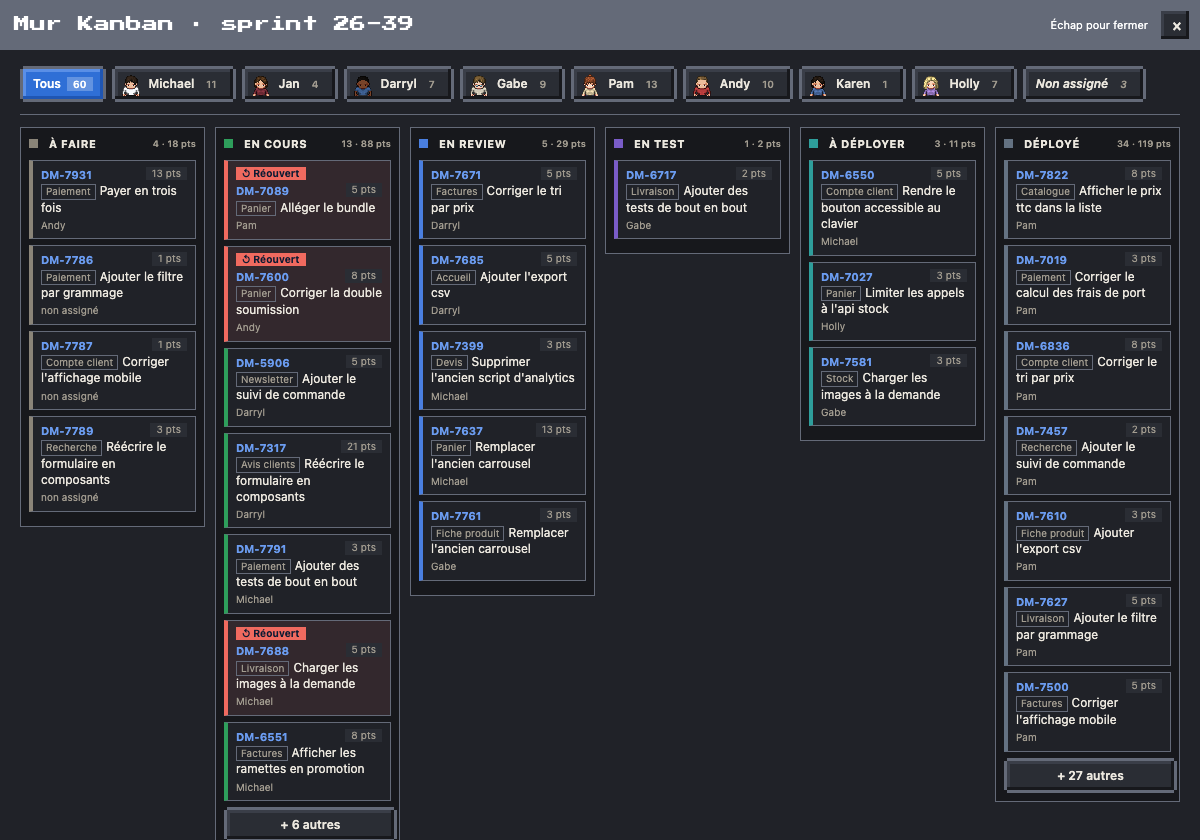
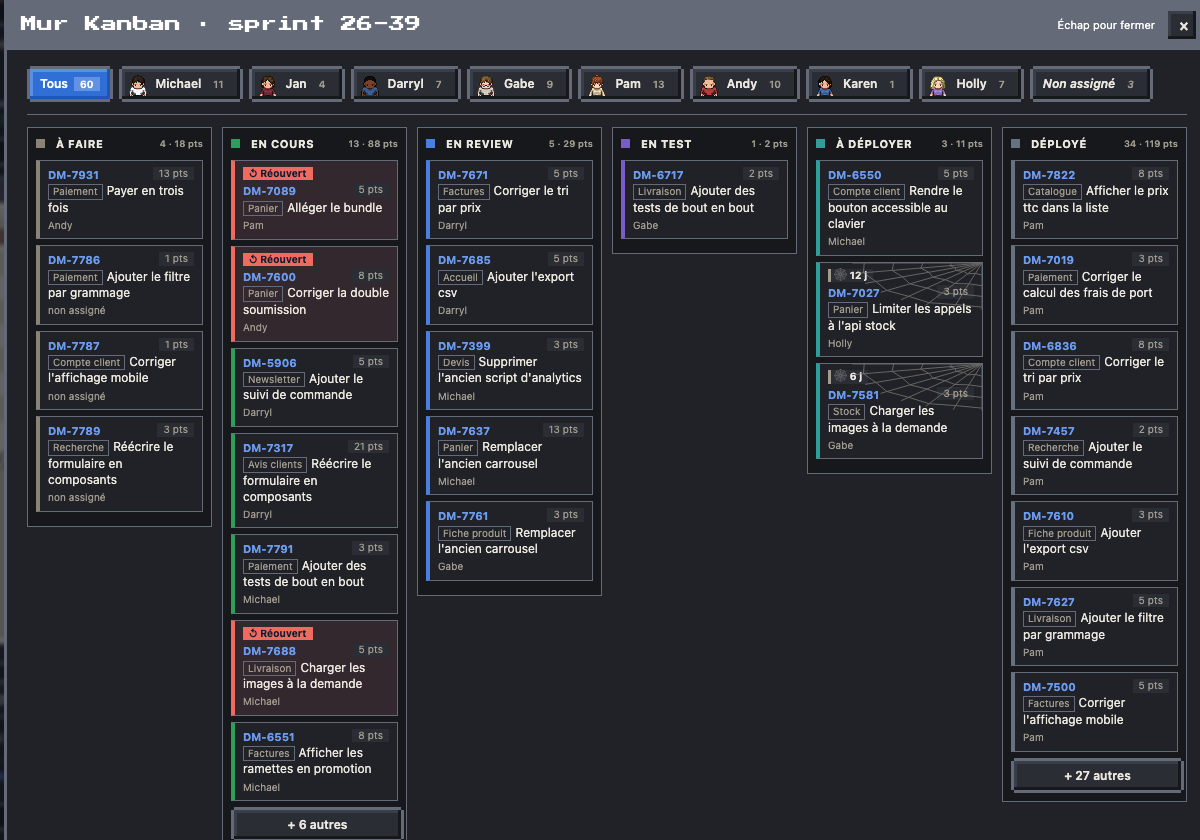
feat: une toile d'araignée sur les tickets qui traînent, et le ménage du soir (#121)
## 🎯 Quoi et pourquoi
Deux petits moments sur le plan, choisis sur maquettes :
- **Repérer les tickets qui traînent** sans chercher. Les revues
automatiques rendent inutile un compteur de PR en attente ; ce qui
compte, c'est le temps qu'un ticket passe dans sa colonne. Le signe se
voit seulement sur le Mur Kanban.
- **Le bureau vide le soir** : un agent d'entretien qui passe une heure,
et qu'on retrouve dans le fil.

## 🔧 Changements
- `feat(kanban)` : `kbStale` et `kbWeb` (`63-kanban.js`). Un ticket
au-delà de son seuil (3 j en review, en test ou à déployer, 10 j en
cours ; jamais à faire ni déployé) se couvre d'une toile d'araignée qui
grandit avec le retard : un coin au seuil, la moitié au double, la carte
entière au-delà de 60 j, avec une araignée, et la carte se ternit. Tag «
🕸 N j » ; au survol, la colonne, les jours et le seuil. Jours comptés
depuis le dernier changement de statut (`tkSince`), à l'heure de la page
(rejeu compris). Seuils réglables : `ui.stale`. Aucune donnée en plus.
- `feat(plan)` : `49-menage.js`. Invité commun `g_menage`
(`team/guests.json`, « L'agent d'entretien », recette d'avatar dans
`sprites/cast.json`, sans planche) avec `on: "cleaning"`. Les jours
ouvrés, arrivée tirée au sort pour la date entre la fin des heures de
bureau et 20h, une heure : un arrêt au bout de chaque îlot, puis la
cafétéria, les toilettes et la salle de réunion ; son chariot est
dessiné à côté de lui (`cleaningCarts`, trié avec les personnages). Deux
[…]

diff --git a/page/src/63-kanban.js b/page/src/63-kanban.js
@@ -11,6 +11,23 @@ let KB_WHO='', KB_VOL=null, KB_BACK=[];
 // un ticket réouvert (statut jira.flow.reopened, rangé dans « En cours ») : pastille « ↺ Réouvert » et liseré rouge
 const kbReopened=x=>!!x.status&&x.status===FLOW.reopened;
 const kbPeople=()=>chars.filter(c=>c.person&&c.team&&c.team.tickets.length);
+// un ticket qui traîne dans sa colonne (depuis son dernier changement de statut, tkSince, à l'heure de la page) : une toile
+// d'araignée le recouvre, un coin au seuil, la moitié au double, la carte entière avec son araignée au-delà de 60 j, et la
+// carte porte « 🕸 N j ». Seuils en jours par colonne (ui.stale de la config ou du pack pour en changer)
+const KB_STALE={doing:10,review:3,test:3,deploy:3};
+function kbStale(x,col){
+  const lim=((CFG.ui||{}).stale||KB_STALE)[col], u=lim&&tkSince(x);if(!u)return null;
+  const d=Math.floor((T-u)/864e5);if(d<lim)return null;
+  return {d,lim,lvl:d>=60?3:d>=2*lim?2:1};
+}
+function kbWeb(lvl){
+  const R=[26,50,115][lvl-1], n=[5,7,9][lvl-1], pt=(a,r)=>(100-Math.cos(a)*r*1.6).toFixed(1)+' '+(Math.sin(a)*r).toFixed(1);
+  let p='';
+  for(let i=0;i<=n;i++)p+=`<path d="M100 0L${pt(Math.PI/2*i/n,R)}"/>`;
+  for(let r=1;r<=lvl+2;r++){let d='';for(let i=0;i<=n;i++)d+=(i?'L':'M')+pt(Math.PI/2*i/n,R*r/(lvl+2.4)+(i%2?1.5:0));p+=`<path d="${d}"/>`;}
+  return `<svg class="kb-web kb-web${lvl}" viewBox="0 0 100 100" preserveAspectRatio="none" aria-hidden="true">${p}</svg>`+(lvl<3?'':
+    '<svg class="kb-spider" viewBox="0 0 22 40" aria-hidden="true"><path class="kb-silk" d="M11 0V24"/><path d="M11 28L3 22L1 18M11 29L2 28L0 25M11 30L3 33L1 37M11 28L19 22L21 18M11 29L20 28L22 25M11 30L19 33L21 37"/><ellipse cx="11" cy="29" rx="4" ry="5"/></svg>');
+}
 function kbTitle(){
   const c=byKey[KB_WHO];
   return 'Mur Kanban'+(c?' · '+c.name:KB_WHO==='-'?' · non assignés':TEAM&&TEAM.sprint&&TEAM.sprint.name?' · sprint '+TEAM.sprint.name:'');
@@ -56,10 +73,10 @@ function kanbanFill(box){
     const pts=list.reduce((a,x)=>a+(+x.points||0),0), n=KB_ALL[k]?list.length:KB_MAX;
     if(KB_VOL&&k==='done')return `<button type="button" class="kbw-col kbw-strip" title="${esc(TCAT[k].t)} : ${list.length} tickets (fermer le volet pour les voir)"><span class="dot" style="background:${TCAT[k].c}"></span>${esc(TCAT[k].t)} · ${list.length}</button>`;
     return `<section class="kbw-col" aria-label="${esc(TCAT[k].t)}"><h3><span class="dot" style="background:${TCAT[k].c}"></span>${esc(TCAT[k].t)}<small>${list.length}${pts?' · '+Math.round(pts)+' pts':''}</small></h3>`+
-      list.slice(0,n).map(x=>{const t=tkComp(x.summary), ro=kbReopened(x);
-        return `<a href="#" class="kbw-c${x.key===cur?' kb-on':''}${ro?' kb-ro':''}" data-tk="${esc(x.key)}"${x.key===cur?' aria-current="true"':''} style="--c:${TCAT[k].c}" title="Ouvrir sa fiche et ses actions">`+
-          (ro?'<span class="kb-rot" title="Réouvert en test : retour en cours">↺ Réouvert</span>':'')+`<b>${esc(x.key)}</b>${x.points?`<em>${esc(x.points)} pts</em>`:''}`+
-          `<span class="kbw-t">${t.comp?`<span class="kbw-cp">${esc(t.comp)}</span>`:''}${esc(t.title)}</span><small>${esc(x.owner?String(x.owner).split(' ')[0]:'non assigné')}</small></a>`;}).join('')+
+      list.slice(0,n).map(x=>{const t=tkComp(x.summary), ro=kbReopened(x), st=kbStale(x,k);
+        return `<a href="#" class="kbw-c${x.key===cur?' kb-on':''}${ro?' kb-ro':''}${st?' kb-stale kb-stale'+st.lvl:''}" data-tk="${esc(x.key)}"${x.key===cur?' aria-current="true"':''} style="--c:${TCAT[k].c}" title="${st?`Dans « ${esc(TCAT[k].t)} » depuis ${st.d} j (seuil ${st.lim} j). `:''}Ouvrir sa fiche et ses actions">`+
+          (ro?'<span class="kb-rot" title="Réouvert en test : retour en cours">↺ Réouvert</span>':'')+(st?`<span class="kb-age">🕸 ${st.d} j</span>`:'')+`<b>${esc(x.key)}</b>${x.points?`<em>${esc(x.points)} pts</em>`:''}`+
+          `<span class="kbw-t">${t.comp?`<span class="kbw-cp">${esc(t.comp)}</span>`:''}${esc(t.title)}</span><small>${esc(x.owner?String(x.owner).split(' ')[0]:'non assigné')}</small>${st?kbWeb(st.lvl):''}</a>`;}).join('')+
       (list.length>n?`<button type="button" class="kbw-more" data-col="${k}">+ ${list.length-n} autre${list.length-n>1?'s':''}</button>`:'')+
       (list.length?'':'<span class="kbw-none">—</span>')+'</section>';
   }).join('')+'</div></div><p class="hint">'+(KB_VOL?'Un autre ticket change le volet ; un lien de PR l\'y ouvre, « ← » revient ; Échap ferme le volet, puis la fenêtre.':

diff --git a/page/src/49-menage.js b/page/src/49-menage.js
@@ -1,0 +1,39 @@
+// ---------- ménage du soir : un invité on « cleaning » fait le tour du bureau vide, une heure, avec son chariot ----------
+// Les jours ouvrés, il arrive à une heure tirée au sort pour la date (la même au rejeu) entre la fin des heures de bureau
+// et 20h, et reste une heure : un arrêt au bout de chaque îlot, puis la cafétéria, les toilettes et la salle de réunion
+// (une pièce absente du plan se replie ailleurs, ZONE_FALLBACK). Les pièces où il passe s'éclairent comme pour tout le
+// monde (42-light.js). Deux lignes dans le fil : son arrivée et son départ.
+const CLEAN_DUR=60*60e3, CLEAN_ROOMS=[['coffee','la cafétéria'],['wc','les toilettes'],['meet','la salle de réunion']];
+// {s, e} du jour de t ; null le week-end
+function cleaningVisit(c,t){
+  if(SCENE_DEMO&&SCENE_DEMO.visit&&SCENE_DEMO.visit.c===c)return SCENE_DEMO.visit.v; // 46-gallery.js : sa tournée, jouée maintenant
+  if(RHYTHM.weekend.includes(parisHM(t).wd))return null;
+  const r=rng(keySeed(c.key)*7919+daySeed(t)), h1=RHYTHM.office_hours[1]*60, m0=h1+r()*Math.max(0,20*60-h1);
+  const s=parisMidnight(t)+m0*60e3;return {s,e:s+CLEAN_DUR};
+}
+// les arrêts : le bout de chaque îlot (côté allée), puis les pièces
+function cleaningStops(){
+  const out=[];
+  for(const [i,cx] of (ISLANDS||[]).entries()){const y=(IROWS||[]).length?IROWS[IROWS.length-1]+1:null;
+    if(y!=null&&walkable(cx,y))out.push({zone:'visit',visit:[cx,y,'up'],room:'îlot '+(i+1)});}
+  return out.concat(CLEAN_ROOMS.map(([zone,room])=>({zone,room})));
+}
+function cleaningState(c,t){
+  const v=cleaningVisit(c,t);
+  if(!v||t<v.s)return {st:'off',label:'Passe le soir, après les heures de bureau'};
+  if(t>=v.e)return {st:'gone',label:'A fait le ménage de '+hm(v.s)+' à '+hm(v.e)};
+  const stops=cleaningStops(), p=stops[Math.min(stops.length-1,Math.floor((t-v.s)/(CLEAN_DUR/stops.length)))];
+  return {st:'idle',zone:p.zone,...(p.visit?{visit:p.visit}:{}),label:'Fait le ménage : '+p.room+' · arrivé à '+hm(v.s)+', repart vers '+hm(v.e),bubble:'🧹'};
+}
+// son chariot, devant lui (seau bleu, flacon jaune, balai) ; trié avec les personnages (41-render.js)
+function cleaningCarts(){
+  const out=[];
+  for(const c of chars){if(c.on!=='cleaning'||!c._st||!c.pos||['off','gone'].includes(c._st.st))continue;
+    const [dx,dy]={left:[-20,0],right:[20,0]}[c.dir]||[20,2]; /* de face ou de dos : à côté de lui, jamais derrière un bureau */out.push({x:c.pos.x+dx,y:c.pos.y+dy,z:c.pos.y+dy+.5});}
+  return out;
+}
+function drawCart(m){
+  const x=Math.round(m.x)-11,y=Math.round(m.y);
+  R(ctx,x,y-16,22,13,'#5d6470');R(ctx,x+2,y-14,18,4,'#8a929e');R(ctx,x+3,y-22,8,7,'#3d8bd8');R(ctx,x+13,y-21,5,6,'#e0b23a');
+  R(ctx,x+17,y-28,2,25,'#b08a5a');R(ctx,x+2,y-3,4,3,'#22252c');R(ctx,x+16,y-3,4,3,'#22252c');
+}

diff --git a/tests/menage.test.js b/tests/menage.test.js
@@ -1,0 +1,48 @@
+// Ménage du soir (49-menage.js) : l'invité on « cleaning » arrive après les heures de bureau (au plus tard 20h), reste
+// une heure, s'arrête au bout de chaque îlot puis dans les pièces, pousse son chariot ; deux lignes dans le fil.
+'use strict';
+const test = require('node:test');
+const assert = require('node:assert/strict');
+const {load} = require('./helpers/page.js');
+
+const page = load({layout: 'open-space'});
+const run = page.run;
+const J = code => JSON.parse(run('JSON.stringify(' + code + ')'));
+const HANK = "chars.find(c=>c.on==='cleaning')";
+
+test('Hank est un invité commun, avec sa recette (aucune planche)', () => {
+  assert.equal(J(`${HANK}.key`), 'g_menage');
+  assert.ok(J('!!RECIPES.g_menage'));
+});
+
+test('arrivée entre la fin des heures de bureau et 20h, une heure, la même à chaque calcul ; rien le week-end', () => {
+  const v = J(`(()=>{const c=${HANK},a=cleaningVisit(c,DAY0+12*36e5),b=cleaningVisit(c,DAY0+3*36e5);
+    return {m:(a.s-parisMidnight(a.s))/6e4,dur:(a.e-a.s)/6e4,same:a.s===b.s,end:RHYTHM.office_hours[1]*60};})()`);
+  assert.ok(v.m >= v.end && v.m <= Math.max(v.end, 20 * 60), JSON.stringify(v));
+  assert.equal(v.dur, 60);
+  assert.ok(v.same);
+  const sat = J(`(()=>{let t=DAY0;while(!RHYTHM.weekend.includes(parisHM(t).wd))t+=864e5;return cleaningVisit(${HANK},t+12*36e5);})()`);
+  assert.equal(sat, null);
+});
+
+test('la tournée : chaque îlot, puis la cafétéria, les toilettes et la salle de réunion ; son chariot le suit', () => {
+  const rooms = J('cleaningStops().map(s=>s.room)');
+  assert.equal(rooms.filter(r => r.startsWith('îlot')).length, J('ISLANDS.length'));
+  assert.deepEqual(rooms.slice(-3), ['la cafétéria', 'les toilettes', 'la salle de réunion']);
+  const s = J(`(()=>{const c=${HANK},v=cleaningVisit(c,DAY0+12*36e5);return [cleaningState(c,v.s-6e4).st,cleaningState(c,v.s+6e4),cleaningState(c,v.e+6e4).st];})()`);
+  assert.equal(s[0], 'off');
+  assert.match(s[1].label, /^Fait le ménage : îlot 1/);
+  assert.equal(s[1].bubble, '🧹');
+  assert.equal(s[2], 'gone');
+  const carts = J(`(()=>{const c=${HANK};c._st={st:'idle'};c.pos={x:100,y:200};c.dir='left';const a=cleaningCarts();c._st={st:'gone'};return [a,cleaningCarts()];})()`);
+  assert.deepEqual(carts[0], [{x: 80, y: 200, z: 200.5}]);
+  assert.deepEqual(carts[1], []);
+});
+
+test('le fil : son arrivée et son départ', () => {
+  const lines = J(`(()=>{const v=cleaningVisit(${HANK},DAY0+12*36e5);return feedLifeEvents(v.e+6e4).filter(e=>e.c&&e.c.on==='cleaning').map(e=>[e.t===v.s||e.t===v.e,e.txt.replace(/<[^>]+>/g,'')]);})()`);
+  assert.equal(lines.length, 2);
+  assert.ok(lines.every(l => l[0]));
+  assert.match(lines[0][1], /commence le ménage du soir/);
+  assert.match(lines[1][1], /a fini le ménage/);
+});

diff --git a/page/src/styles.css b/page/src/styles.css
@@ -256,6 +256,15 @@ button.back kbd{font:10px ui-monospace,Menlo,monospace;border:1px solid var(--li
 .kbw-strip{writing-mode:vertical-rl;transform:rotate(180deg);display:flex;align-items:center;justify-content:flex-end;gap:8px;min-height:220px;margin:0;padding:10px 0;font-size:11px;font-weight:700;text-transform:uppercase;letter-spacing:.05em;color:var(--muted)}
 .kbw-c.kb-ro{border-left-color:var(--err);background:color-mix(in srgb,var(--err) 9%,var(--panel))}
 .kb-rot{display:table;font-size:10px;font-weight:700;padding:0 6px;border-radius:999px;margin:0 0 3px;background:var(--err);color:var(--on-accent)} /* le texte des fonds colorés de chaque thème : 5,9:1 sur le rouge clair du Classique */
+/* ticket qui traîne (63-kanban.js) : « 🕸 N j » et une toile qui grandit avec le retard, l'araignée au-delà de 60 j */
+.kbw-c.kb-stale{position:relative;overflow:hidden}
+.kb-age{display:table;font-size:10px;font-weight:700;padding:0 6px;margin:0 0 3px;background:var(--chip);color:var(--ink);box-shadow:inset 3px 0 0 var(--muted)}
+.kb-web{position:absolute;inset:0;width:100%;height:100%;pointer-events:none;fill:none;stroke:var(--muted);stroke-width:1;opacity:.55}
+.kb-web path{vector-effect:non-scaling-stroke}
+.kb-web3{opacity:.7}.kb-stale3{filter:saturate(.6) brightness(.95)}
+.kb-stale3 b,.kb-stale3 .kbw-t{text-shadow:0 0 3px var(--panel),0 0 2px var(--panel)}
+.kb-spider{position:absolute;top:0;right:34%;width:22px;height:40px;pointer-events:none;fill:var(--ink);stroke:var(--ink);stroke-width:1.3}
+.kb-spider .kb-silk{stroke:var(--muted);stroke-width:.8;fill:none}
 .kbw-c.kb-on{outline:3px solid var(--accent);outline-offset:1px}
 .kbv.side{position:sticky;top:64px;max-height:calc(84vh - 150px);overflow:auto;padding:12px;margin:0;border:1px solid var(--line);border-radius:10px;background:var(--panel);box-shadow:none}
 .mv-host{display:block;margin:0 0 12px}

diff --git a/tests/kanban.test.js b/tests/kanban.test.js
@@ -69,3 +69,25 @@ test('un ticket réouvert (statut jira.flow.reopened) porte la pastille « ↺ R
   assert.equal(J('kbReopened({status:"En cours",cat:"doing"})'), false);
   assert.equal(J('kbReopened({cat:"doing"})'), false);
 });
+
+test('ticket qui traîne : seuils par colonne (3 j en attente, 10 j en cours), trois niveaux de toile, rien ailleurs', () => {
+  const st = (col, days) => J(`kbStale({since: new Date(T - ${days} * 864e5).toISOString()}, ${JSON.stringify(col)})`);
+  assert.equal(st('review', 2), null);
+  assert.deepEqual(st('review', 3), {d: 3, lim: 3, lvl: 1});
+  assert.deepEqual(st('deploy', 6), {d: 6, lim: 3, lvl: 2});
+  assert.equal(st('doing', 9), null);
+  assert.deepEqual(st('doing', 25), {d: 25, lim: 10, lvl: 2});
+  assert.deepEqual(st('doing', 181), {d: 181, lim: 10, lvl: 3});
+  assert.equal(st('todo', 400), null); // à faire et déployé : jamais
+  assert.equal(st('done', 400), null);
+  assert.equal(J('kbStale({}, "review")'), null); // date inconnue
+  assert.match(J('kbWeb(3)'), /kb-spider/);
+  assert.doesNotMatch(J('kbWeb(2)'), /kb-spider/);
+});
+
+test('ticket qui traîne : seuils réglables (ui.stale)', () => {
+  run('CFG.ui = CFG.ui || {}; CFG.ui.stale = {review: 1};');
+  try { assert.deepEqual(J('kbStale({since: new Date(T - 864e5).toISOString()}, "review")'), {d: 1, lim: 1, lvl: 1});
+        assert.equal(J('kbStale({since: new Date(T - 50 * 864e5).toISOString()}, "doing")'), null); } // colonne absente du réglage
+  finally { run('delete CFG.ui.stale;'); }
+});

diff --git a/page/src/70-kpis-feed.js b/page/src/70-kpis-feed.js
@@ -186,6 +186,9 @@ function feedLifeEvents(t){
       ev.push({t:e,c,imp:false,txt:`🧘 ${refWho(c)} passe féliciter ${a?refWho(a):esc(n||"l'équipe")} pour ${refTag(z.tag)}${shout(n)}`});}continue;}
     if(c.on==='coffee'){const r=coffeeTour(c,DAY0+12*36e5);if(r&&today(r.s)) // 49-coffee.js : une ligne à son arrivée
       ev.push({t:r.s,c,imp:false,txt:'☕ '+String(c.feed||"{name} apporte le café à l'équipe").split('{name}').map(esc).join(refWho(c))});continue;}
+    if(c.on==='cleaning'){const v=cleaningVisit(c,DAY0+12*36e5);if(v&&today(v.s)){ // 49-menage.js : son arrivée et son départ
+      ev.push({t:v.s,c,imp:false,txt:`🧹 ${refWho(c)} commence le ménage du soir`});
+      if(today(v.e))ev.push({t:v.e,c,imp:false,txt:`🧹 ${refWho(c)} a fini le ménage, le bureau est propre`});}continue;}
     if(c.on)continue;
     const v=guestVisit(c,DAY0+12*36e5); if(!v||!today(v.s))continue;
     const p=/^Passe voir (.+?) ·/.exec((guestState(c,v.s+1e3)||{}).label||''), pc=p&&chars.find(x=>x.person&&x.name===p[1]);

diff --git a/page/src/46-gallery.js b/page/src/46-gallery.js
@@ -34,6 +34,8 @@ function galleryScenes(){
     const visit=len=>s=>{SCENE_DEMO.visit={c,v:{s,e:s+len,r:rng(keySeed(c.key)*7919+daySeed(s))}};};
     if(c.on==='coffee'){const n=chars.filter(p=>p.person&&p.seat).length+1;
       add({...g,ico:'☕',n:c.name+' · tournée de café',d:c.role||'Un café pour chaque présent',w:'Vers 16 h, jours ouvrés',play:{len:n*120e3+COFFEE_BREW,speed:30,setup:visit(n*120e3+COFFEE_BREW)}});}
+    else if(c.on==='cleaning')add({...g,ico:'🧹',n:c.name+' · ménage du soir',d:c.role||'Le tour du bureau vide, avec son chariot',w:'Le soir des jours ouvrés, une heure',
+      play:{len:CLEAN_DUR,speed:60,setup:visit(CLEAN_DUR)}});
     else if(c.on==='mail'){const acc=typeof mailAccounts==='function'?mailAccounts().filter(a=>a.ok):[];
       if(acc.length)add({...g,ico:'📮',n:c.name+' · le courrier',d:c.role||'Dépose le courrier aux boîtes',w:'À l\'arrivée d\'un courrier',
         play:{len:POST_STAY+60e3,speed:10,setup:s=>{SCENE_DEMO.flag='post';}}});}

diff --git a/page/src/41-render.js b/page/src/41-render.js
@@ -5,6 +5,7 @@ function render(now){
   for(const c of chars)if(c.present&&c.pos&&!popHidden(c,now)&&!ufoHides(c))list.push({y:c.pos.y,d:n=>drawChar(c,n)}); // popHidden : 66-newagent.js
   DUCK_POS=duckAt(T); if(DUCK_POS)list.push({y:DUCK_POS.y,d:drawDuck}); // 39-duck.js : le canard, trié avec les personnages
   for(const m of coffeeMugs())list.push({y:m.z,d:n=>drawMug(m,n)}); // 49-coffee.js : les tasses de la tournée de café
+  for(const m of cleaningCarts())list.push({y:m.z,d:()=>drawCart(m)}); // 49-menage.js : le chariot du ménage du soir
   list.sort((a,b)=>a.y-b.y);
   for(const it of list)it.d(now);
   drawLight(now); // voile du soir et de la nuit, sous les bulles et les noms

diff --git a/page/src/35-state.js b/page/src/35-state.js
@@ -170,6 +170,7 @@ function guestState(c,t){
   if(c.on==='prod')return prodHeraldState(c,t); // 37-scenes.js : le héraut des mises en prod réussies
   if(c.on==='mail')return postmanState(c,t); // 48-mail.js : le facteur dépose le courrier
   if(c.on==='coffee')return coffeeState(c,t); // 49-coffee.js : la tournée de café
+  if(c.on==='cleaning')return cleaningState(c,t); // 49-menage.js : le ménage du soir
   const v=guestVisit(c,t);
   if(!v||t<v.s)return {st:'off',label:"Pas passé aujourd'hui"};
   if(t>=v.e)return {st:'gone',label:'Passé de '+hm(v.s)+' à '+hm(v.e)};

diff --git a/tools/shots.py b/tools/shots.py
@@ -176,6 +176,8 @@ SHOTS = {
     "kanban-deplacer": (1600, 1000, AT(11) + KB_DEMO + "openTicket(_all.find(t=>t.cat==='review').key);", ".kbv"),
     "carte-deplacer": (1400, 1000, AT(11) + KB_DEMO + "openTicket(_all.find(t=>t.cat==='review').key);document.querySelector('.kbv .mv-next').click();", ".kmodal"),
     # un ticket réouvert (statut jira.flow.reopened) : pastille « ↺ Réouvert » dans la colonne En cours
+    # tickets qui traînent : DM-6551 ramené 181 j en arrière (en cours), à côté des deux « à déployer » de la démo (6 j, 12 j)
+    "kanban-traine": (1600, 1000, AT(11) + "TEAM.people.flatMap(p=>p.tickets).filter(t=>t.key==='DM-6551').forEach(t=>{t.since=new Date(T-181*864e5).toISOString();});select('kanban');", ".bp-wide"),
     "kanban-reouvert": (1600, 1000, AT(11) + KB_DEMO + "TEAM.people.flatMap(p=>p.tickets).filter(x=>x.cat==='doing')[1].status=FLOW.reopened;openKanban();", ".bp-wide"),
     # le Kanban filtré sur une personne (barre de portraits en haut)
     "kanban-personne": (1600, 1000, AT(11) + "select('kanban');KB_WHO=kbPeople()[0].key;kanbanFill(document.querySelector('.bp-wbody'));", ".bp-wide"),
@@ -272,6 +274,8 @@ SHOTS = {
                       "const e={id:'x',kind:'ufo',...ufoLandings()[0]};Object.defineProperty(e,'t0',{get:()=>performance.now()-.79*13e3});"
                       "FX.cur=new Map([['x',e]]);},1800);", "#cv", 1),
     # tournée de café (49-coffee.js) : Kevin apporte son café au boss, à gauche de son bureau ; les autres ont déjà leur tasse
+    # ménage du soir (49-menage.js) : l'agent d'entretien et son chariot au bout du 4e îlot, 21 min après son arrivée
+    "menage": (1400, 1000, AT(12) + "T=cleaningVisit(byKey.g_menage,T).s+0.35*36e5;needTeleport=true;", "#cv", 1.5),
     "tournee-cafe": (1400, 1000, AT(16) + "setTimeout(()=>{setLoupe(false,false);const r=coffeeTour(byKey.g_kevin,T);"
                      "T=r.at+(r.list.length-.5)*120e3;needTeleport=true;},1500);", "#cv", 1),
     "agent-retabli": (1400, 1000, AT(18 + 7 / 60) + "setTimeout(()=>{window.fxFrame=()=>{};setLoupe(false,false);FX_WORKING.push('idle');"

diff --git a/tests/test_install.py b/tests/test_install.py
@@ -517,12 +517,12 @@ class GuestsTest(unittest.TestCase):
         pack = os.path.join(ROOT, "tests", "fixtures", "pack-exemple")
         cfg = {"team": pack, "guests": [{"key": "g_x", "name": "X"}]}
         profile = [g["key"] for g in json.loads(Path(os.path.join(pack, "roster.json")).read_text())["guests"]]
-        self.assertEqual([g["key"] for g in assemble.guests(cfg)], ["g_gandalf", "g_yoda", "g_facteur"] + profile + ["g_x"])
+        self.assertEqual([g["key"] for g in assemble.guests(cfg)], ["g_gandalf", "g_yoda", "g_facteur", "g_menage"] + profile + ["g_x"])
         self.assertIn("g_hank", profile)
-        self.assertEqual([g["key"] for g in assemble.guests({})], ["g_gandalf", "g_yoda", "g_facteur"])  # toute installation, même sans équipe
+        self.assertEqual([g["key"] for g in assemble.guests({})], ["g_gandalf", "g_yoda", "g_facteur", "g_menage"])  # toute installation, même sans équipe
         self.assertEqual(assemble.guests({"common_guests": False}), [])
         renamed = assemble.guests({"guests": [{"key": "g_yoda", "name": "Le sage", "sprite": "yoda", "on": "prod"}]})
-        self.assertEqual([(g["key"], g["name"]) for g in renamed], [("g_gandalf", "Gandalf"), ("g_facteur", "Le facteur"), ("g_yoda", "Le sage")])  # même clé : remplacé (et passé en dernier)
+        self.assertEqual([(g["key"], g["name"]) for g in renamed], [("g_gandalf", "Gandalf"), ("g_facteur", "Le facteur"), ("g_menage", "L'agent d'entretien"), ("g_yoda", "Le sage")])  # même clé : remplacé (et passé en dernier)
         self.assertTrue({"yoda", "mage", "facteur"} <= set(assemble.sprites({})))  # planches communes (sprites/common.json)
         self.assertIn("sorcier", assemble.sprites(cfg))  # sa planche, tirée de sprites/sorcier/ du pack
         html = assemble.build(demo=False, cfg=dict(json.loads(Path(os.path.join(ROOT, "tests", "fixtures", "bureau.config.json")).read_text()), team=pack))

diff --git a/README.md b/README.md
@@ -8,13 +8,13 @@ Une page Live pour [Kronn](https://github.com/DocRoms/Kronn) façon *The Office*
 
 | Fonctionnalité | En bref |
 | --- | --- |
-| [Le plan](guide/fonctionnalites/01-plan.md) | Collègues, agents en hologramme (et ceux ajoutés depuis une baie de la salle Serveurs), visiteurs et invités de passage, placés selon ce qu'ils font ; lumière du jour ; loupe sur les événements forts (réouverture, mise en prod, visite, cérémonies), plan d'équipe validé par le boss, brouillon depuis un croquis ou une photo, passions de l'équipe, le canard en plastique qui se promène et grandit avec le sprint (stades, canetons, succès, petites scènes) ; l'agent qui sort de panne applaudi ; la soucoupe-mère qui dépose au mur Kanban un ticket ajouté en cours de sprint ; la tournée de café de 16h |
+| [Le plan](guide/fonctionnalites/01-plan.md) | Collègues, agents en hologramme (et ceux ajoutés depuis une baie de la salle Serveurs), visiteurs et invités de passage, placés selon ce qu'ils font ; lumière du jour ; loupe sur les événements forts (réouverture, mise en prod, visite, cérémonies), plan d'équipe validé par le boss, brouillon depuis un croquis ou une photo, passions de l'équipe, le canard en plastique qui se promène et grandit avec le sprint (stades, canetons, succès, petites scènes) ; l'agent qui sort de panne applaudi ; la soucoupe-mère qui dépose au mur Kanban un ticket ajouté en cours de sprint ; la tournée de café de 16h ; le ménage du soir, une heure, avec son chariot |
 | [Qui fait quoi](guide/fonctionnalites/03-qui-fait-quoi.md) | Une carte par personne et par agent : ce qu'il fait maintenant |
 | [Fil et récap](guide/fonctionnalites/04-fil-et-recap.md) | La journée heure par heure (ce qui t'attend en haut, tes actions, pannes, filtre par type), et son résumé depuis minuit |
 | [Rejouer la journée](guide/fonctionnalites/05-rejouer.md) | Direct, ou relecture de la journée : heure à taper, vitesse de ×1 à ×480, « ⏵ revoir » une scène depuis le fil, galerie des scènes à jouer pour les montrer |
 | [Mode TV et cérémonies](guide/fonctionnalites/06-mode-tv.md) | Écran d'open space lisible à 3 m, tour de table du daily, sprint planning et rétrospective en salle de réunion |
 | [Fiches](guide/fonctionnalites/07-fiches.md) | Journée d'un agent ou d'un collègue ; fiche d'un ticket ou d'une PR (PR de plusieurs dépôts, en retard ou en conflit, la remettre à jour, générer son env de branche, faire relire et corriger ; chaque action avec l'agent qui la fait, l'action conseillée et où en est le ticket ; mise en prod seulement en To Deploy) ; programme d'un agent cron en clair et son prochain passage ; lancer (un champ par paramètre), relancer sans rien à remplir, interroger ; tes validations et les questions des discussions dans ta fiche de boss, à décider sur la page (bulle ✋ sur ton personnage, et sur Mac une notification même page fermée) ; parler au canard et répondre à ses questions, son sprint et ses trophées ; fiche de paie ; cartes de passion (GitFut, Smash, dramas) |
-| [Murs du bureau](guide/fonctionnalites/08-murs.md) | Kanban du sprint (filtre par personne, fiche d'un ticket ou d'une PR dans un volet : tous les liens de ticket y mènent), prochains crons en post-it (salle Serveurs), mises en prod, employé du sprint, écran mural de la salle de réunion avec tes autres pages Kronn (ajout et retrait depuis la page), et en mode TV un vidéoprojecteur qui montre leur chiffre clé |
+| [Murs du bureau](guide/fonctionnalites/08-murs.md) | Kanban du sprint (une toile d'araignée sur les tickets qui traînent, filtre par personne, fiche d'un ticket ou d'une PR dans un volet : tous les liens de ticket y mènent), prochains crons en post-it (salle Serveurs), mises en prod, employé du sprint, écran mural de la salle de réunion avec tes autres pages Kronn (ajout et retrait depuis la page), et en mode TV un vidéoprojecteur qui montre leur chiffre clé |
 | [Avatars](guide/fonctionnalites/09-avatars.md) | Éditeur d'apparence, pour soi ou pour toute l'équipe |
 | [Fraîcheur des données](guide/fonctionnalites/10-fraicheur.md) | Prochaine arrivée, sources en retard, crons du Bureau en échec, à relancer ou rafraîchir d'un clic |
 | [Téléphone](guide/fonctionnalites/11-mobile.md) | Affichage mobile |
